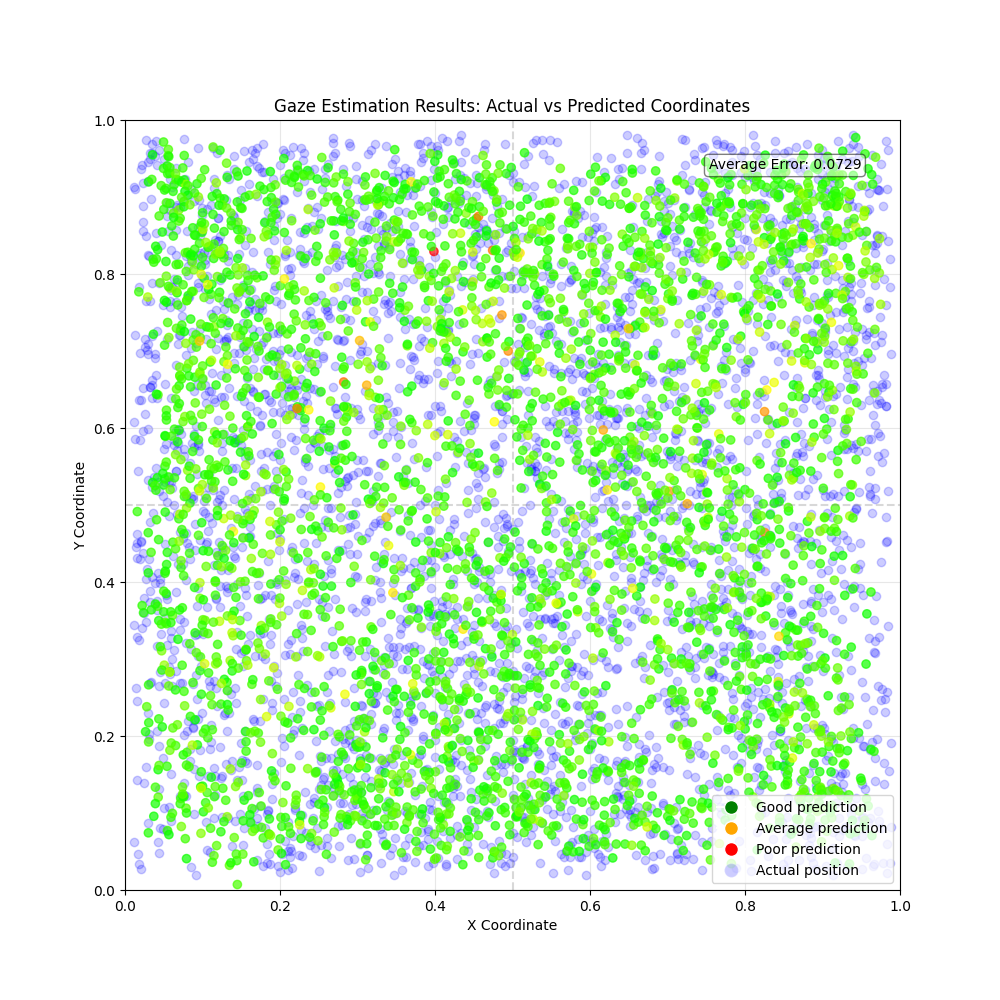
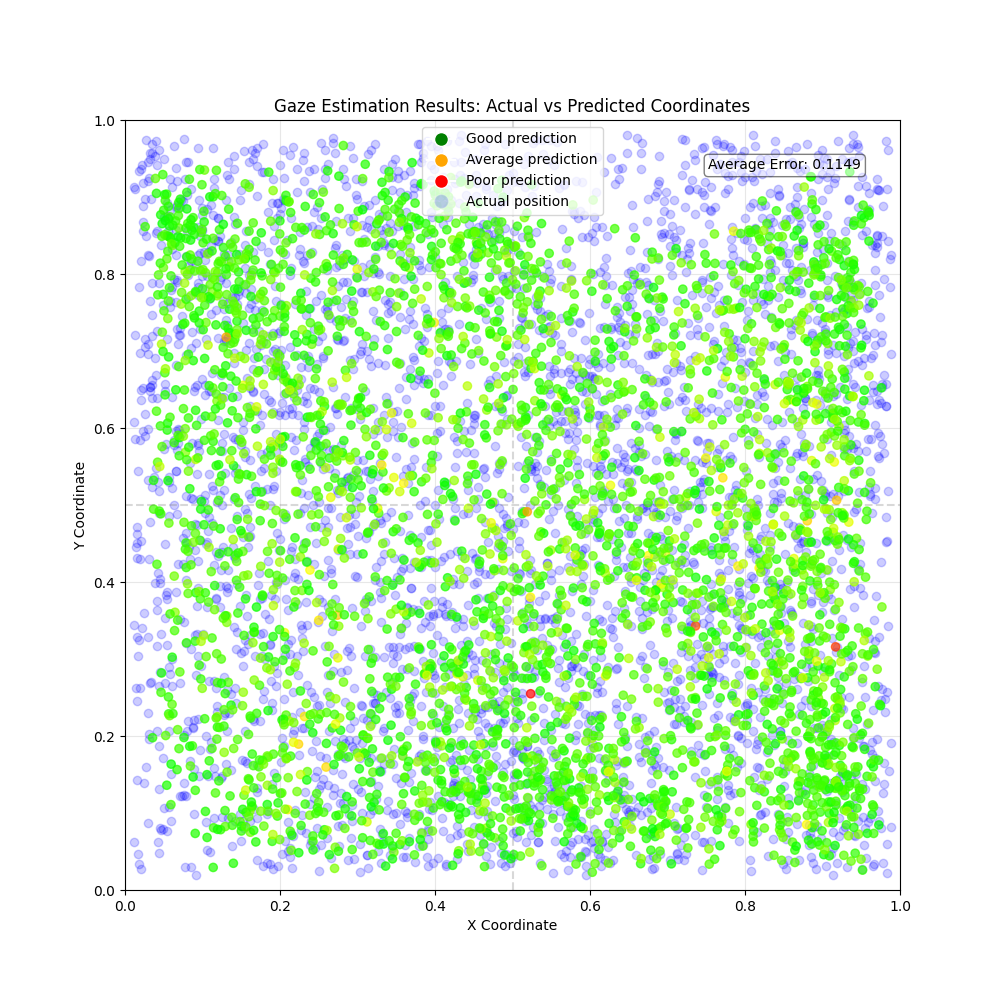
real vlidation

diff --git a/train.py b/train.py
@@ -5,7 +5,7 @@ import os
 import torch
 import torch.nn as nn
 import torch.optim as optim
-from torch.utils.data import Dataset, DataLoader, random_split
+from torch.utils.data import Dataset, DataLoader, random_split, Subset
 from sklearn.model_selection import train_test_split
 
 import pandas as pd
@@ -322,12 +322,56 @@ def main():
     if len(full_dataset) == 0:
         raise ValueError("Dataset is empty. Please run dataset_generator.py first.")
     
-    # Create train and validation datasets using the indices
-    train_dataset, val_dataset = train_test_split(full_dataset, test_size=0.1, random_state=43)
+    # Create train and validation datasets using temporal split to avoid data leakage
+    # Since images are taken at 100ms intervals, we need to split by time ranges
+    # Use 20 validation ranges of 0.5% each, distributed throughout the dataset
+    total_size = len(full_dataset)
+    val_range_size = int(0.005 * total_size)  # 0.5% of dataset per validation range
+    
+    # Create 20 validation ranges distributed throughout the dataset
+    val_indices = []
+    train_indices = []
+    
+    for i in range(20):
+        # Calculate start and end indices for this validation range
+        start_idx = i * (total_size // 20) + (i * val_range_size // 20)
+        end_idx = start_idx + val_range_size
+        
+        # Ensure we don't exceed dataset bounds
+        end_idx = min(end_idx, total_size)
+        
+        # Add validation indices for this range
+        val_indices.extend(range(start_idx, end_idx))
+    
+    # Create train indices (all indices not in validation)
+    val_set = set(val_indices)
+    train_indices = [i for i in range(total_size) if i not in val_set]
+    
+    # Create subset datasets
+    train_dataset = Subset(full_dataset, train_indices)
+    val_dataset = Subset(full_dataset, val_indices)
 
-    # Print dataset size
+    # Print dataset size and temporal information
     print(f"Train dataset size: {len(train_dataset)}")
     print(f"Validation dataset size: {len(val_dataset)}")
+    print(f"Number of validation ranges: 20 (0.5% each)")
+    
+    # Print temporal range information for verification
+    val_ranges = []
+    for i in range(20):
+        start_idx = i * (total_size // 20) + (i * val_range_size // 20)
+        end_idx = min(start_idx + val_range_size, total_size)
+        if start_idx < total_size:
+            val_first_img = full_dataset.data.iloc[start_idx, 0]
+            val_last_img = full_dataset.data.iloc[end_idx-1, 0]
+            val_ranges.append(f"Range {i+1}: {val_first_img} to {val_last_img}")
+    
+    print("Validation temporal ranges (first 10 and last 10):")
+    for i in range(0, 10):
+        print(f"  {val_ranges[i]}")
+    print("  ...")
+    for i in range(10, 20):
+        print(f"  {val_ranges[i]}")
     
     # Create data loaders - set num_workers=0 to avoid multiprocessing issues
     train_loader = DataLoader(train_dataset, batch_size=32, shuffle=True, num_workers=0)

diff --git a/model.py b/model.py
@@ -25,13 +25,18 @@ class Model(nn.Module):
         # For 224x224 input, the feature map size after pass_2 will be 14x14x128
         self.fc = nn.Sequential(
             nn.Flatten(),
-            nn.Linear(128 * 14 * 14, 128 * 14),
+            nn.Linear(128 * 14 * 14, 512),  # Reduced complexity
+            nn.BatchNorm1d(512),
             nn.ReLU(),
-            nn.Linear(128 * 14, 512),
+            nn.Dropout(0.3),  # Increased dropout
+            nn.Linear(512, 256),
+            nn.BatchNorm1d(256),
             nn.ReLU(),
-            nn.Linear(512, 128),
+            nn.Dropout(0.2),  # Increased dropout
+            nn.Linear(256, 64),
             nn.ReLU(),
-            nn.Linear(128, 2)  # Output x, y coordinates
+            nn.Dropout(0.1),  # Increased dropout
+            nn.Linear(64, 2)  # Output x, y coordinates
         )
     
     def forward(self, x):
